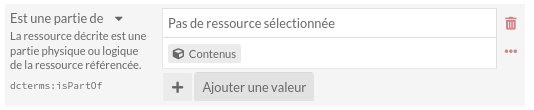
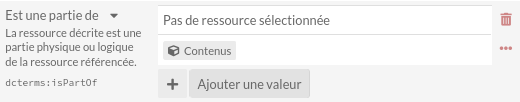
Update 4 files
- /docs/source/img/enob_ispartof.png
- /docs/source/img/enob_isversionof-bug.png
- /docs/source/img/enob_isversionof.png
- /docs/source/usage.rst

diff --git a/docs/source/usage.rst b/docs/source/usage.rst
@@ -19,9 +19,24 @@ Description des pages
 #. Se rendre dans "Ressources">contenus
 #. "Ajouter un nouveau" contenu en haut à droite
 #. Choisir le modèle de ressources "Pages des carnets ou des feuillets"
-#.
+#. Compléter les informations.
+
+
+.. note::
+   
+   Il faut absolument renseigner les champs "Est une partie de" et "Page décrite" pour faire le lien entre, respectivement, la description de l'entité globale (carnet ou feuillet) et la numérisation de la page (=media)
+
 
 .. image:: img/enob_ispartof.png
+.. image:: img/enob_isversionof.png
+
+.. attention::
+
+   En ce moment, il y a un bug qui touche le champ "Page décrite". À la création d'un nouveau contenu, on ne peut pas sélectionner de page (media) comme montré ci-dessous.
+   
+   .. image:: img/enob_isversionof.png
+   
+   Il faut alors enregistrer le contenu, puis le modifier et la sélection de media pour aller chercher la page numérisée est alors possible.
 
 Ajout des références bibliographiques
 -------------------------------------
